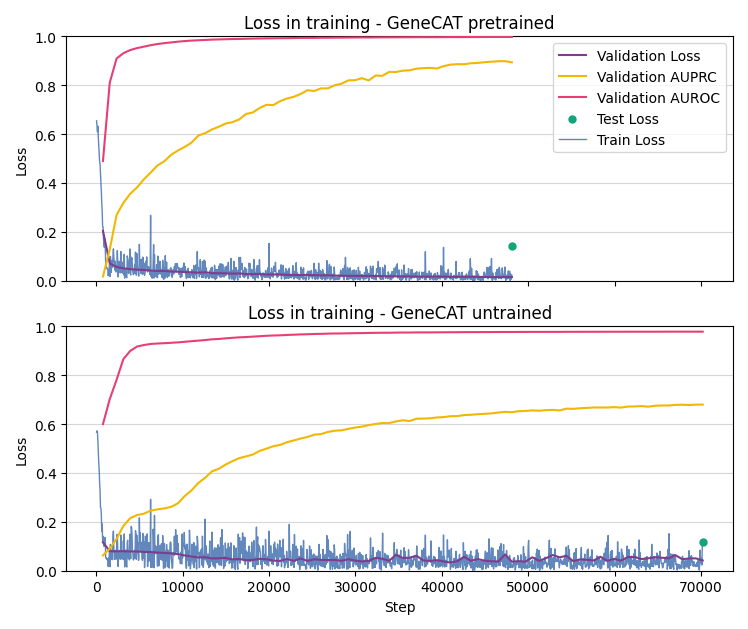
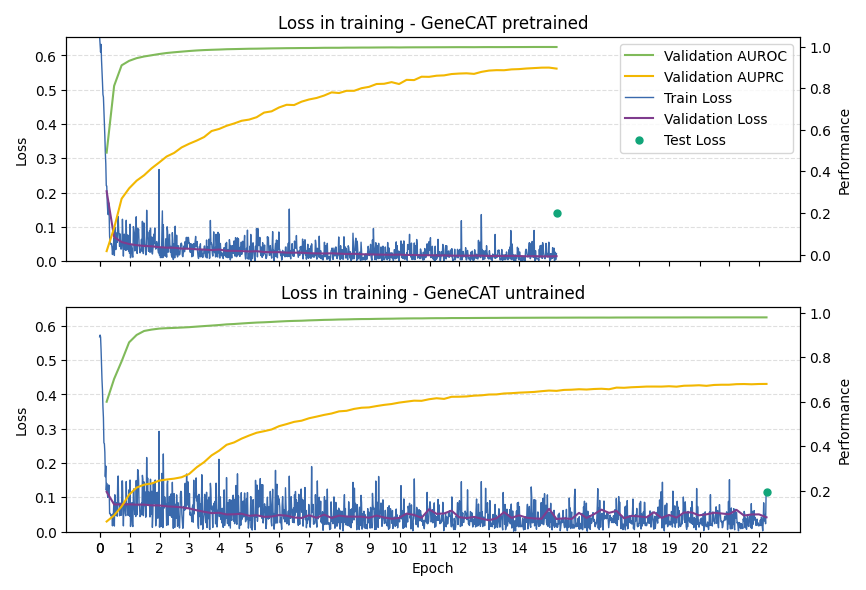
redo loss plot

diff --git a/src/scripts/visualization/loss_plots.py b/src/scripts/visualization/loss_plots.py
@@ -6,52 +6,59 @@ from palettable.cartocolors.qualitative import Bold_10
 def plot_loss(pretrained, untrained, out_path, model_name):
     df_pretrained = polars.read_csv(pretrained)
     df_untrained = polars.read_csv(untrained)
+    # step where each epoch starts
+    epoch_ticks = (
+        df_untrained.group_by(polars.col("epoch"))
+        .agg(
+            polars.col("step").min().alias("step")
+        )
+        .sort("epoch")
+    )
 
     # Figure size in inches
     cm = 1 / 2.54  # centimeters in inches
-    textwidth = 19 * cm
+    textwidth = 22 * cm
 
-    figsize = (textwidth, cm*16)
+    figsize = (textwidth, cm*15)
     dpi = 300
     xlim = None  # can set manually if you want
-    ylim_loss = (0, 1)
     left, right, bottom, top = 0.1, 0.9, 0.15, 0.9  # fixed axes layout
     fig, axis = plt.subplots(2, 1, figsize=figsize, sharex=True)
     bold10 = Bold_10.mpl_colors
+    ylim_loss = max(df_pretrained["train_loss"].max(), df_untrained["train_loss"].max()) 
 
     for i, df in enumerate([df_pretrained, df_untrained]):
-        print(df)
-        print(df.columns)
-        axs = axis[i]
+        ax_left = axis[i]
+        ax_right = ax_left.twinx()
         train_df = (
             df.filter(polars.col("train_loss").is_not_null())
         )
 
+        # loss
         val_df = df.filter(polars.col("val_loss").is_not_null())
-        axs.plot(val_df["step"].to_numpy(), val_df["val_loss"].cast(polars.Float32).to_numpy(),label="Validation Loss", color=bold10[0], zorder=20)
-
-        val_auprc_df = df.filter(polars.col("val_auprc").is_not_null())
-        axs.plot(val_auprc_df["step"].to_numpy(), val_auprc_df["val_auprc"].cast(polars.Float32).to_numpy(), label="Validation AUPRC", color=bold10[3], zorder=20)
-
-        val_auroc_df = df.filter(polars.col("val_auroc").is_not_null())
-        axs.plot(val_auroc_df["step"].to_numpy(), val_auroc_df["val_auroc"].cast(polars.Float32).to_numpy(), label="Validation AUROC", color=bold10[4], zorder=20)
-
+        val_loss_plot = ax_left.plot(val_df["step"].to_numpy(), val_df["val_loss"].cast(polars.Float32).to_numpy(), label="Validation Loss", color=bold10[0], zorder=20)
         test_df = df.filter(polars.col("test_loss").is_not_null())
-        axs.scatter(test_df["step"].to_numpy(), test_df["test_loss"].cast(polars.Float32).to_numpy(), label="Test Loss", color=bold10[1], s=25, zorder=20)
+        test_loss_plot = ax_left.scatter(test_df["step"].to_numpy(), test_df["test_loss"].cast(polars.Float32).to_numpy(), label="Test Loss", color=bold10[1], s=25, zorder=20)
+        train_loss_plot = ax_left.plot(train_df["step"].to_numpy(), train_df["train_loss"].cast(polars.Float32).to_numpy(), label="Train Loss", linestyle='-', linewidth=1, zorder=10, color=bold10[2])
 
-        # test_auprc_df = df.filter(polars.col("test_auprc").is_not_null())
-        # axs.scatter(test_auprc_df["step"].to_numpy(), test_auprc_df["test_auprc"].cast(polars.Float32).to_numpy(), label="Test AUPRC", color=bold10[2], s=25, zorder=20)
+        # auprc and auroc
+        val_auprc_df = df.filter(polars.col("val_auprc").is_not_null())
+        auprc_plot = ax_right.plot(val_auprc_df["step"].to_numpy(), val_auprc_df["val_auprc"].cast(polars.Float32).to_numpy(), label="Validation AUPRC", color=bold10[3], zorder=20)
+        val_auroc_df = df.filter(polars.col("val_auroc").is_not_null())
+        auroc_plot = ax_right.plot(val_auroc_df["step"].to_numpy(), val_auroc_df["val_auroc"].cast(polars.Float32).to_numpy(), label="Validation AUROC", color=bold10[5], zorder=20)
 
-        axs.plot(train_df["step"].to_numpy(), train_df["train_loss"].cast(polars.Float32).to_numpy(), label="Train Loss", linestyle='-', linewidth=1, zorder=10, alpha=0.8, color=bold10[2])
+        ax_left.set_ylabel("Loss")
+        ax_left.set_ylim(0, ylim_loss)
+        ax_left.set_title("Loss in training - " + model_name + (" pretrained" if i==0 else " untrained"))
+        ax_right.set_ylabel("Performance")
+        ax_left.grid(axis="y", alpha=0.4, linestyle="--")
 
-        axs.set_ylabel("Loss")
-        axs.set_ylim(ylim_loss)
-        axs.grid(axis="y", alpha=0.5)
-    
-        axs.set_title("Loss in training - " + model_name + (" pretrained" if i==0 else " untrained"))
-
-    axis[0].legend(loc="upper right")
-    axis[1].set_xlabel("Step")
+    # for some reason matplotlib returns list of lines instead of line? so need to extract them
+    handles = [h[0] if type(h) == list else h for h in [auroc_plot, auprc_plot, train_loss_plot, val_loss_plot, test_loss_plot]]
+    axis[0].legend(loc="upper right", handles=handles)
+    axis[1].set_xticks(epoch_ticks["step"][:-1])
+    axis[1].set_xticklabels(epoch_ticks["epoch"][:-1])
+    axis[1].set_xlabel("Epoch")
     print(f"Saving plot to {out_path}...")
     plt.tight_layout()
     plt.savefig(out_path)

diff --git a/src/scripts/esmc_bacformer_script.py b/src/scripts/esmc_bacformer_script.py
@@ -138,7 +138,7 @@ if __name__ == "__main__":
 
 
     # get embeddings per contig
-    for contig in tqdm(os.listdir("src/data/genecat_output/genes")[:5]):
+    for contig in tqdm(os.listdir("src/data/genecat_output/genes")):
         proteins = []
         protein_ids = []
         genes_file = f"src/data/genecat_output/genes/{contig}"
